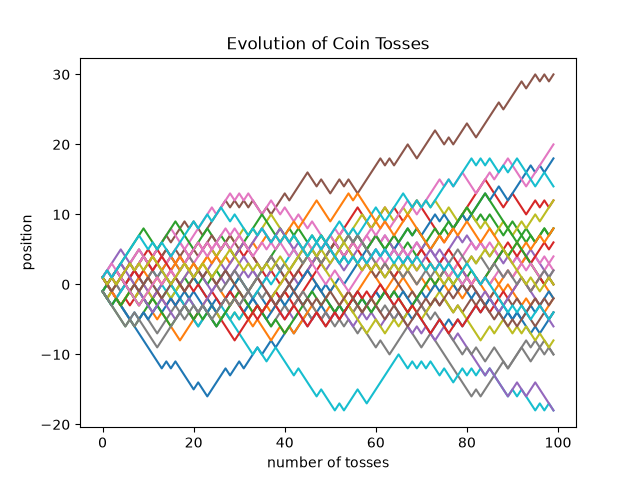
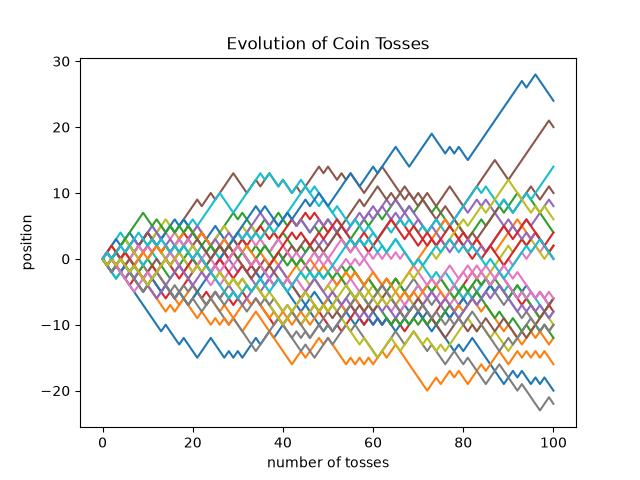
Add initial zero position to cumulative sum

diff --git a/main.py b/main.py
@@ -18,13 +18,17 @@ def simulation(number_of_tosses, number_of_iteration):
 
     cumsum = np.cumsum(matrix, axis = 1)
 
+    base_value = np.zeros(shape=(number_of_iteration,1))
+
+    cumsum = np.concatenate((base_value, cumsum), axis = 1)
+
     return cumsum
 
 def plot(number_of_tosses, number_of_iteration):
 
     cumsum = simulation(number_of_tosses, number_of_iteration)
 
-    x = np.arange(number_of_tosses)
+    x = np.arange(number_of_tosses+1)
 
     for i in range(number_of_iteration):
 